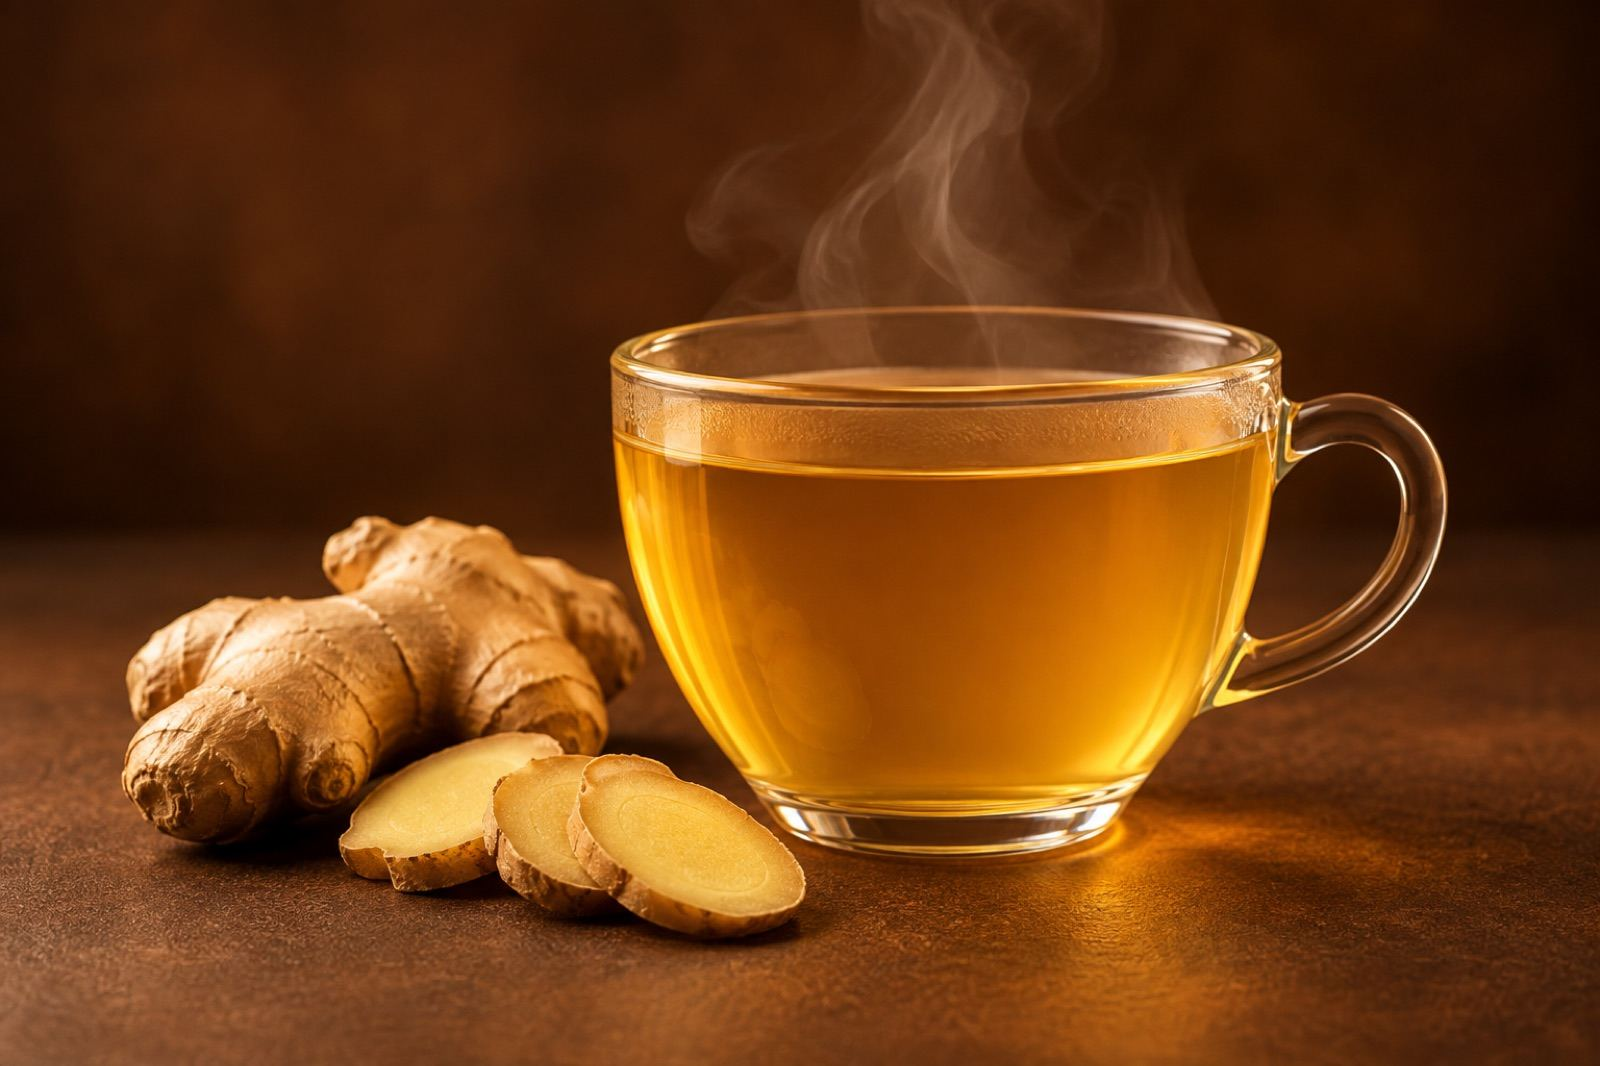
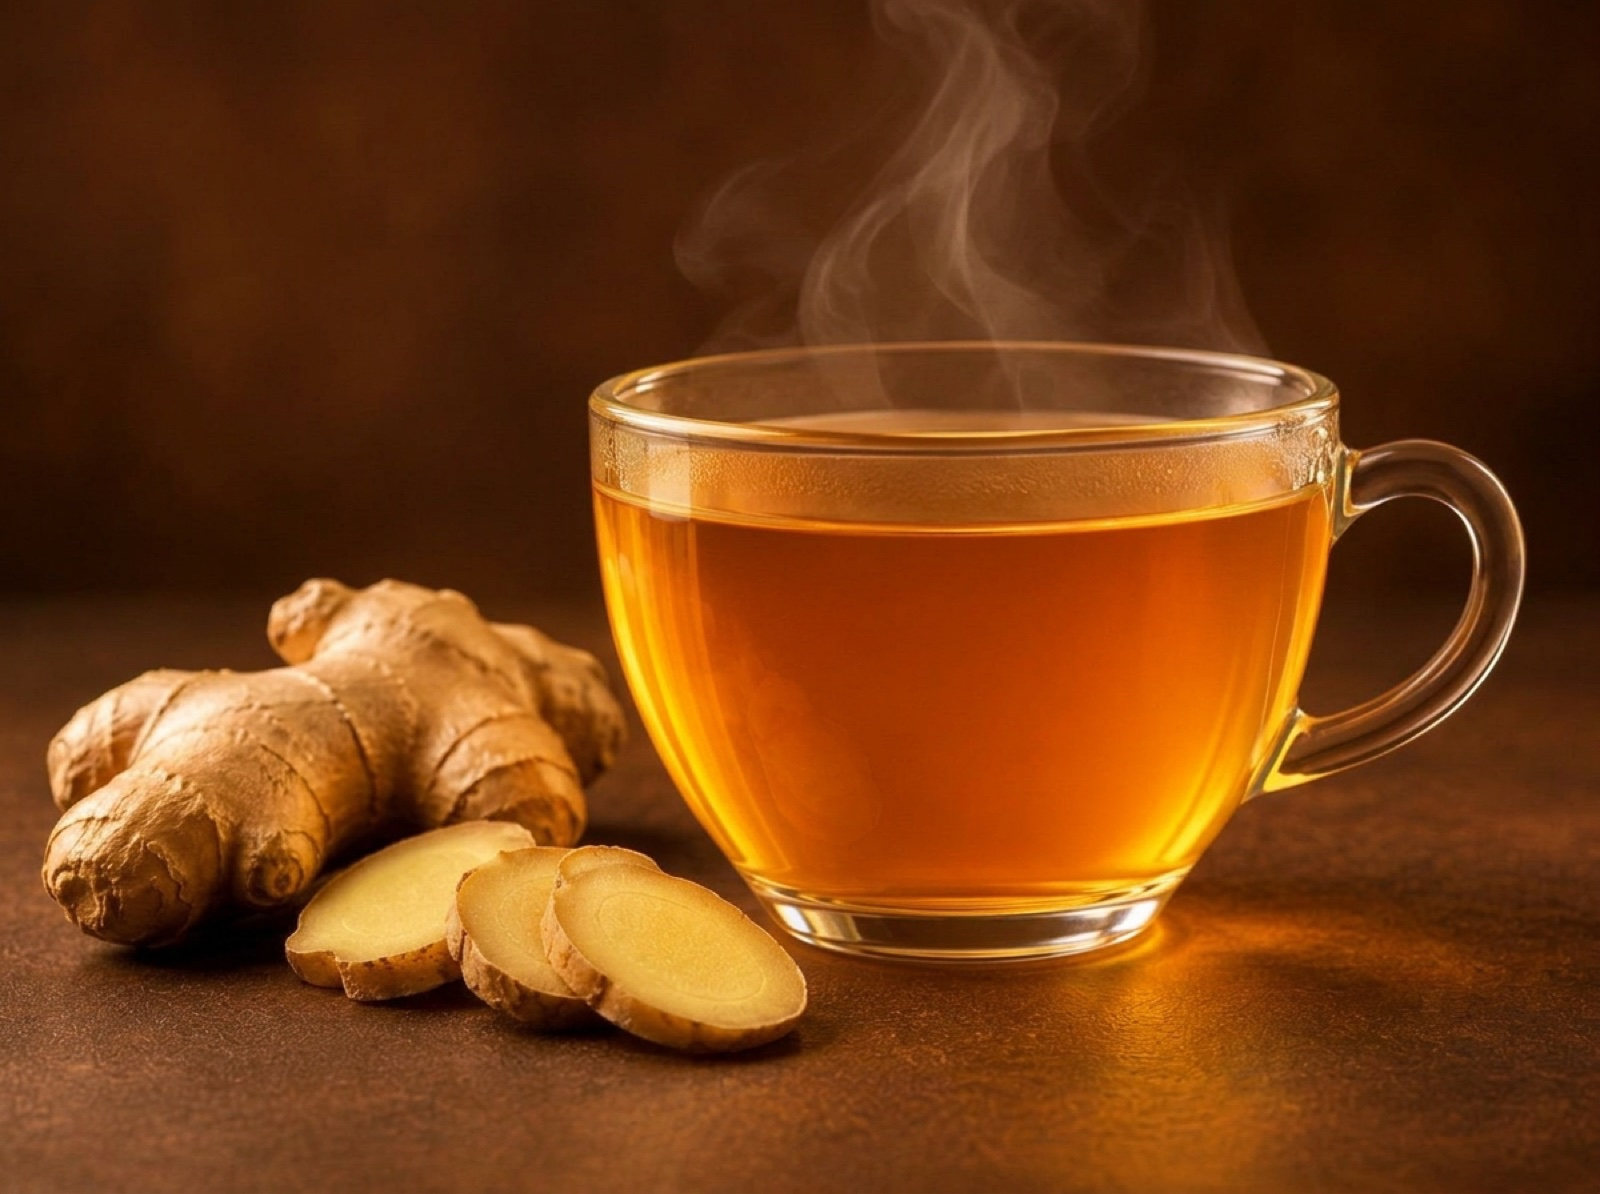
v7: real drink colours, drop Shiv Group

diff --git a/straightforward-7/about.html b/straightforward-7/about.html
@@ -4,7 +4,7 @@
 <meta charset="utf-8">
 <meta name="viewport" content="width=device-width, initial-scale=1">
 <title>About | StraightFrwd</title>
-<meta name="description" content="Why we started StraightFrwd. Part of Shiv Group, 40+ years in Indian industry and 20+ years with soya.">
+<meta name="description" content="Why we started StraightFrwd, and what goes into every sachet.">
 <link rel="icon" href="assets/favicon.svg" type="image/svg+xml">
 <link rel="icon" href="assets/favicon-32.png" type="image/png" sizes="32x32">
 <link rel="shortcut icon" href="assets/favicon.ico">
@@ -12,7 +12,7 @@
 <link rel="preconnect" href="https://fonts.googleapis.com">
 <link rel="preconnect" href="https://fonts.gstatic.com" crossorigin>
 <link href="https://fonts.googleapis.com/css2?family=Outfit:wght@400;500;600;700;800&display=swap" rel="stylesheet">
-<link rel="stylesheet" href="assets/style.css?v=1795665257">
+<link rel="stylesheet" href="assets/style.css?v=1795763126">
 <script>document.documentElement.classList.add('js')</script>
 <script src="assets/logo.js"></script>
 </head>
@@ -151,12 +151,11 @@
 <svg hidden class="wave " viewBox="0 0 1440 60" preserveAspectRatio="none" aria-hidden="true"><path d="M0 30c120-26 240-26 360 0s240 26 360 0 240-26 360 0 240 26 360 0v30H0z" fill="var(--brown)"/></svg>
 <section hidden class="how ab-roots">
   <div class="wrap roots">
-    <div class="roots-big"><span class="big-num">40+</span><span>years of Shiv Group in Indian industry</span></div>
-    <div class="roots-big"><span class="big-num">20+</span><span>years working with soya</span></div>
+        <div class="roots-big"><span class="big-num">20+</span><span>years working with soya</span></div>
     <div class="roots-copy">
       <p class="hand kicker">where we come from</p>
       <h2>A new name, with decades behind it.</h2>
-      <p>StraightFrwd is part of Shiv Group. For over forty years Shiv Group has been a name in Indian industry. For more than two decades the work has centred on one ingredient, soya, what the team here calls the miracle seed.</p>
+      <p>For more than two decades our work has centred on one ingredient, soya, what the team here calls the miracle seed.</p>
       <p>StraightFrwd is the first time we have brought that expertise directly to you and your family.</p>
     </div>
   </div>
@@ -187,12 +186,12 @@
 
 <footer class="foot" data-chrome="footer">
   <div class="wrap">
-    <p>StraightFrwd. Nutrition, Made Easy. Part of Shiv Group.</p>
+    <p>StraightFrwd. Nutrition, Made Easy.</p>
     <p><a href="tel:+919672227666">+91 96722 27666</a> · <a href="https://wa.me/919057119000" target="_blank" rel="noopener">WhatsApp 90571 19000</a> · <a href="mailto:care@straightfrwd.com">care@straightfrwd.com</a> · <a href="privacy.html">Privacy</a></p>
   </div>
 </footer>
 
-<script src="assets/chrome.js?v=1795665257"></script>
-<script src="assets/main.js?v=1795665257"></script>
+<script src="assets/chrome.js?v=1795763126"></script>
+<script src="assets/main.js?v=1795763126"></script>
 </body>
 </html>

diff --git a/straightforward-7/index.html b/straightforward-7/index.html
@@ -12,7 +12,7 @@
 <link rel="preconnect" href="https://fonts.googleapis.com">
 <link rel="preconnect" href="https://fonts.gstatic.com" crossorigin>
 <link href="https://fonts.googleapis.com/css2?family=Outfit:wght@400;500;600;700;800&display=swap" rel="stylesheet">
-<link rel="stylesheet" href="assets/style.css?v=1795665257">
+<link rel="stylesheet" href="assets/style.css?v=1795763126">
 <script>document.documentElement.classList.add('js')</script>
 <script src="assets/logo.js"></script>
 </head>
@@ -316,7 +316,7 @@
     <svg class="ill c2 c-green" aria-hidden="true"><use href="#i-lemon"/></svg>
     <svg class="ill c3 c-brown" aria-hidden="true"><use href="#i-kahwa"/></svg>
     <svg class="ill c4 c-brown" aria-hidden="true"><use href="#i-mango"/></svg>
-    <p class="hand kicker">from the Shiv Group family, 40+ years in Indian industry</p>
+    <p class="hand kicker">plant protein, made simple</p>
     <h2>Nutrition, <span class="ul">made easy.<svg aria-hidden="true"><use href="#d-under"/></svg></span></h2>
     <p class="sub">Seven flavours. One sachet at a time.</p>
     <a class="btn btn-lg" href="products.html">See Our Products</a>
@@ -326,12 +326,12 @@
 
 <footer class="foot" data-chrome="footer">
   <div class="wrap">
-    <p>StraightFrwd. Nutrition, Made Easy. Part of Shiv Group.</p>
+    <p>StraightFrwd. Nutrition, Made Easy.</p>
     <p><a href="tel:+919672227666">+91 96722 27666</a> · <a href="https://wa.me/919057119000" target="_blank" rel="noopener">WhatsApp 90571 19000</a> · <a href="mailto:care@straightfrwd.com">care@straightfrwd.com</a> · <a href="privacy.html">Privacy</a></p>
   </div>
 </footer>
 
-<script src="assets/chrome.js?v=1795665257"></script>
-<script src="assets/main.js?v=1795665257"></script>
+<script src="assets/chrome.js?v=1795763126"></script>
+<script src="assets/main.js?v=1795763126"></script>
 </body>
 </html>

diff --git a/straightforward-7/privacy.html b/straightforward-7/privacy.html
@@ -12,7 +12,7 @@
 <link rel="preconnect" href="https://fonts.googleapis.com">
 <link rel="preconnect" href="https://fonts.gstatic.com" crossorigin>
 <link href="https://fonts.googleapis.com/css2?family=Outfit:wght@400;500;600;700;800&display=swap" rel="stylesheet">
-<link rel="stylesheet" href="assets/style.css?v=1795665257">
+<link rel="stylesheet" href="assets/style.css?v=1795763126">
 <script>document.documentElement.classList.add('js')</script>
 <script src="assets/logo.js"></script>
 </head>
@@ -116,7 +116,7 @@
 <section class="policy">
   <div class="wrap policy-in">
     <section class="pol-sec"><h2>Who we are</h2>
-<p>This site belongs to StraightFrwd, a brand of Shiv Protein Private Limited (StraightFrwd), part of Shiv Group. When this page says "we", it means us.</p>
+<p>This site belongs to StraightFrwd, a brand of Shiv Protein Private Limited. When this page says "we", it means us.</p>
     </section>
     <section class="pol-sec"><h2>What we collect</h2>
 <p>Only what you type into our contact form: your name, phone number, email, the topic, the product you pick and your message.</p>
@@ -157,12 +157,12 @@
 
 <footer class="foot" data-chrome="footer">
   <div class="wrap">
-    <p>StraightFrwd. Nutrition, Made Easy. Part of Shiv Group.</p>
+    <p>StraightFrwd. Nutrition, Made Easy.</p>
     <p><a href="tel:+919672227666">+91 96722 27666</a> · <a href="https://wa.me/919057119000" target="_blank" rel="noopener">WhatsApp 90571 19000</a> · <a href="mailto:care@straightfrwd.com">care@straightfrwd.com</a> · <a href="privacy.html">Privacy</a></p>
   </div>
 </footer>
 
-<script src="assets/chrome.js?v=1795665257"></script>
-<script src="assets/main.js?v=1795665257"></script>
+<script src="assets/chrome.js?v=1795763126"></script>
+<script src="assets/main.js?v=1795763126"></script>
 </body>
 </html>

diff --git a/straightforward-7/contact.html b/straightforward-7/contact.html
@@ -12,7 +12,7 @@
 <link rel="preconnect" href="https://fonts.googleapis.com">
 <link rel="preconnect" href="https://fonts.gstatic.com" crossorigin>
 <link href="https://fonts.googleapis.com/css2?family=Outfit:wght@400;500;600;700;800&display=swap" rel="stylesheet">
-<link rel="stylesheet" href="assets/style.css?v=1795665257">
+<link rel="stylesheet" href="assets/style.css?v=1795763126">
 <script>document.documentElement.classList.add('js')</script>
 <script src="assets/logo.js"></script>
 </head>
@@ -150,12 +150,12 @@
 
 <footer class="foot" data-chrome="footer">
   <div class="wrap">
-    <p>StraightFrwd. Nutrition, Made Easy. Part of Shiv Group.</p>
+    <p>StraightFrwd. Nutrition, Made Easy.</p>
     <p><a href="tel:+919672227666">+91 96722 27666</a> · <a href="https://wa.me/919057119000" target="_blank" rel="noopener">WhatsApp 90571 19000</a> · <a href="mailto:care@straightfrwd.com">care@straightfrwd.com</a> · <a href="privacy.html">Privacy</a></p>
   </div>
 </footer>
 
-<script src="assets/chrome.js?v=1795665257"></script>
-<script src="assets/main.js?v=1795665257"></script>
+<script src="assets/chrome.js?v=1795763126"></script>
+<script src="assets/main.js?v=1795763126"></script>
 </body>
 </html>

diff --git a/straightforward-7/product.html b/straightforward-7/product.html
@@ -12,7 +12,7 @@
 <link rel="preconnect" href="https://fonts.googleapis.com">
 <link rel="preconnect" href="https://fonts.gstatic.com" crossorigin>
 <link href="https://fonts.googleapis.com/css2?family=Outfit:wght@400;500;600;700;800&display=swap" rel="stylesheet">
-<link rel="stylesheet" href="assets/style.css?v=1795665257">
+<link rel="stylesheet" href="assets/style.css?v=1795763126">
 <script>document.documentElement.classList.add('js')</script>
 <script src="assets/logo.js"></script>
 </head>
@@ -117,12 +117,12 @@
 
 <footer class="foot" data-chrome="footer">
   <div class="wrap">
-    <p>StraightFrwd. Nutrition, Made Easy. Part of Shiv Group.</p>
+    <p>StraightFrwd. Nutrition, Made Easy.</p>
     <p><a href="tel:+919672227666">+91 96722 27666</a> · <a href="https://wa.me/919057119000" target="_blank" rel="noopener">WhatsApp 90571 19000</a> · <a href="mailto:care@straightfrwd.com">care@straightfrwd.com</a> · <a href="privacy.html">Privacy</a></p>
   </div>
 </footer>
 
-<script src="assets/chrome.js?v=1795665257"></script>
-<script src="assets/main.js?v=1795665257"></script>
+<script src="assets/chrome.js?v=1795763126"></script>
+<script src="assets/main.js?v=1795763126"></script>
 </body>
 </html>

diff --git a/straightforward-7/products.html b/straightforward-7/products.html
@@ -12,7 +12,7 @@
 <link rel="preconnect" href="https://fonts.googleapis.com">
 <link rel="preconnect" href="https://fonts.gstatic.com" crossorigin>
 <link href="https://fonts.googleapis.com/css2?family=Outfit:wght@400;500;600;700;800&display=swap" rel="stylesheet">
-<link rel="stylesheet" href="assets/style.css?v=1795665257">
+<link rel="stylesheet" href="assets/style.css?v=1795763126">
 <script>document.documentElement.classList.add('js')</script>
 <script src="assets/logo.js"></script>
 </head>
@@ -184,12 +184,12 @@
 
 <footer class="foot" data-chrome="footer">
   <div class="wrap">
-    <p>StraightFrwd. Nutrition, Made Easy. Part of Shiv Group.</p>
+    <p>StraightFrwd. Nutrition, Made Easy.</p>
     <p><a href="tel:+919672227666">+91 96722 27666</a> · <a href="https://wa.me/919057119000" target="_blank" rel="noopener">WhatsApp 90571 19000</a> · <a href="mailto:care@straightfrwd.com">care@straightfrwd.com</a> · <a href="privacy.html">Privacy</a></p>
   </div>
 </footer>
 
-<script src="assets/chrome.js?v=1795665257"></script>
-<script src="assets/main.js?v=1795665257"></script>
+<script src="assets/chrome.js?v=1795763126"></script>
+<script src="assets/main.js?v=1795763126"></script>
 </body>
 </html>

diff --git a/straightforward-7/assets/chrome.js b/straightforward-7/assets/chrome.js
@@ -15,7 +15,7 @@
   var P = [['choc','Chocolate'],['mango','Mango'],['kulfi','Kulfi'],['kahwa','Kashmiri Kahwa'],['ginger','Ginger'],['tulsi','Tulsi'],['lemon','Lemon']];
   var footer =
     '<div class="wrap foot-grid">'+
-      '<div><span class="logo logo-foot" data-logo></span><p>Nutrition, Made Easy.<br>Part of Shiv Group.</p></div>'+
+      '<div><span class="logo logo-foot" data-logo></span><p>Nutrition, Made Easy.</p></div>'+
       '<div><h4>Products</h4>'+P.map(function(p){ return '<a href="product.html#'+p[0]+'">'+p[1]+'</a>'; }).join('')+'</div>'+
       '<div><h4>Explore</h4><a href="products.html">All products</a><a href="about.html">About us</a><a href="contact.html">Contact</a><a href="contact.html#buy">Where to buy</a><a href="privacy.html"'+(page==='privacy.html'?' aria-current="page"':'')+'>Privacy</a></div>'+
       '<div><h4>Talk to us</h4><a href="tel:+919672227666">+91 96722 27666</a><a href="https://wa.me/919057119000" target="_blank" rel="noopener">WhatsApp 90571 19000</a><a href="mailto:care@straightfrwd.com">care@straightfrwd.com</a></div>'+
